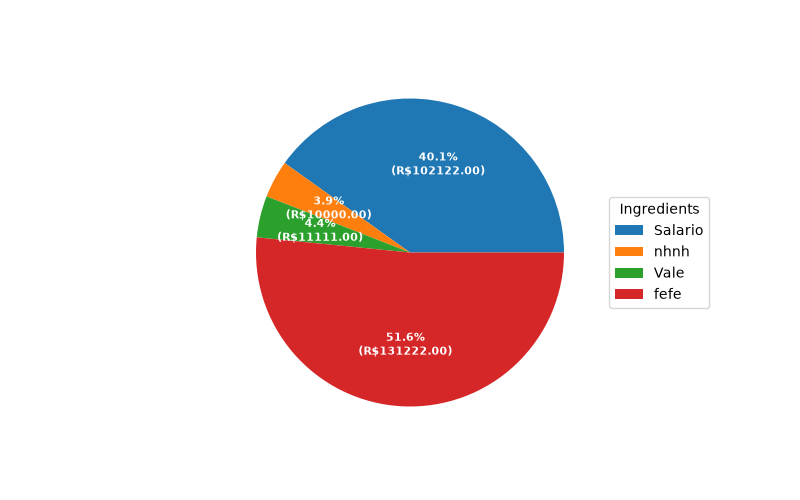
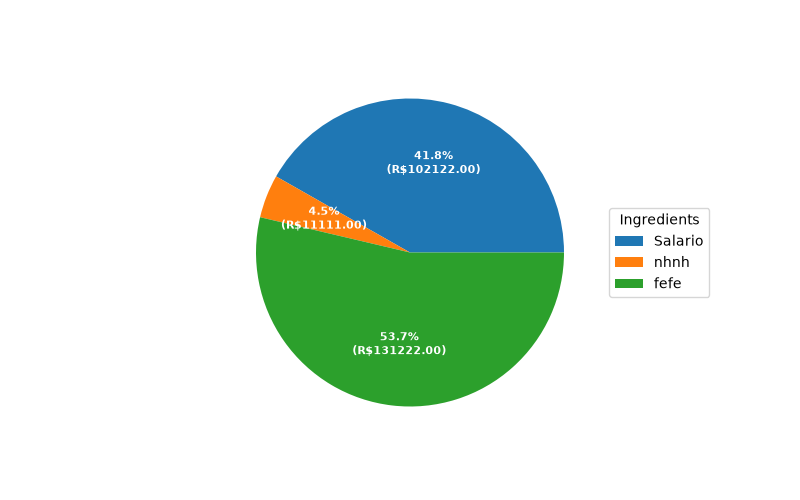
Delete gastos e ganhos
Em fim, meio que crud feito, podemos criar, consultar por parametros, excluir e atualizar

Changed region(s): [[0.3125, 0.33, 0.7188, 0.84], [0.75, 0.39, 0.875, 0.6], [0.4688, 0.3, 0.625, 0.36]]

diff --git a/finance/templates/finance/ganhos.html b/finance/templates/finance/ganhos.html
@@ -8,6 +8,7 @@
     <meta name="viewport" content="width=device-width, initial-scale=1.0">
     <title>Ganhos - Gestão Financeira</title>
     <link href="https://cdn.jsdelivr.net/npm/bootstrap@5.3.0/dist/css/bootstrap.min.css" rel="stylesheet">
+    <link rel="stylesheet" href="https://cdn.jsdelivr.net/npm/bootstrap-icons@1.11.3/font/bootstrap-icons.css">
     <link rel="stylesheet" href="../../static/style/ganhos.css">
 </head>
 
@@ -148,6 +149,12 @@
                                         {% endif %}
                                     </td>
                                     <td>{{ ganhos.type }}</td>
+                                    <td>
+                                        <button type="button" class="btn btn-sm btn-outline-danger"
+                                            data-bs-toggle="modal" data-bs-target="#confirmar-delete-{{ ganhos.id }}">
+                                            <i class="bi bi-trash"></i>
+                                        </button>
+                                    </td>
                                 </tr>
                                 {% endfor %}
                             </tbody>
@@ -259,8 +266,8 @@
                         </div>
 
                         <div class="mb-3 form-check">
-                            <input type="checkbox" class="form-check-input" id="is_paid-{{ ganho.id }}"
-                                name="is_paid" value="True" checked>
+                            <input type="checkbox" class="form-check-input" id="is_paid-{{ ganho.id }}" name="is_paid"
+                                value="True" checked>
                             <label class="form-check-label text-label" for="is_paid-{{ ganho.id }}">Já foi pago /
                                 recebido</label>
                         </div>
@@ -317,6 +324,30 @@
         </div>
     </div>
 
+    {% for ganho in ganhos_consultados %}
+    <div class="modal fade" id="confirmar-delete-{{ ganho.id }}" tabindex="-1" aria-hidden="true">
+        <div class="modal-dialog modal-dialog-centered">
+            <div class="modal-content">
+                <div class="modal-header">
+                    <h5 class="modal-title">Confirmar exclusão</h5>
+                    <button type="button" class="btn-close" data-bs-dismiss="modal" aria-label="Close"></button>
+                </div>
+                <div class="modal-body">
+                    Tem certeza que deseja excluir o ganho <strong>"{{ ganho.description }}"</strong>? Essa ação não
+                    pode ser desfeita.
+                </div>
+                <div class="modal-footer">
+                    <button type="button" class="btn btn-secondary" data-bs-dismiss="modal">Cancelar</button>
+                    <form action="{% url 'finance:delete_ganho' %}" method="post" class="d-inline">
+                        {% csrf_token %}
+                        <input type="hidden" name="ganho_id" value="{{ ganho.id }}">
+                        <button type="submit" class="btn btn-danger">Excluir</button>
+                    </form>
+                </div>
+            </div>
+        </div>
+    </div>
+    {% endfor %}
 
     <script src="https://cdn.jsdelivr.net/npm/bootstrap@5.3.0/dist/js/bootstrap.bundle.min.js"></script>
 </body>

diff --git a/finance/templates/finance/gastos.html b/finance/templates/finance/gastos.html
@@ -8,6 +8,7 @@
     <meta name="viewport" content="width=device-width, initial-scale=1.0">
     <title>Gastos - Gestão Financeira</title>
     <link href="https://cdn.jsdelivr.net/npm/bootstrap@5.3.0/dist/css/bootstrap.min.css" rel="stylesheet">
+    <link rel="stylesheet" href="https://cdn.jsdelivr.net/npm/bootstrap-icons@1.11.3/font/bootstrap-icons.css">
     <link rel="stylesheet" href="../../static/style/gastos.css">
 </head>
 
@@ -148,6 +149,12 @@
                                         {% endif %}
                                     </td>
                                     <td>{{ gasto.type }}</td>
+                                    <td>
+                                        <button type="button" class="btn btn-sm btn-outline-danger"
+                                            data-bs-toggle="modal" data-bs-target="#confirmar-delete-{{ gasto.id }}">
+                                            <i class="bi bi-trash"></i>
+                                        </button>
+                                    </td>
                                 </tr>
                                 {% endfor %}
                             </tbody>
@@ -340,6 +347,30 @@
         </div>
     </div>
 
+    {% for gasto in gastos_consultados %}
+    <div class="modal fade" id="confirmar-delete-{{ gasto.id }}" tabindex="-1" aria-hidden="true">
+        <div class="modal-dialog modal-dialog-centered">
+            <div class="modal-content">
+                <div class="modal-header">
+                    <h5 class="modal-title">Confirmar exclusão</h5>
+                    <button type="button" class="btn-close" data-bs-dismiss="modal" aria-label="Close"></button>
+                </div>
+                <div class="modal-body">
+                    Tem certeza que deseja excluir o ganho <strong>"{{ gasto.description }}"</strong>? Essa ação não
+                    pode ser desfeita.
+                </div>
+                <div class="modal-footer">
+                    <button type="button" class="btn btn-secondary" data-bs-dismiss="modal">Cancelar</button>
+                    <form action="{% url 'finance:delete_gasto' %}" method="post" class="d-inline">
+                        {% csrf_token %}
+                        <input type="hidden" name="gasto_id" value="{{ gasto.id }}">
+                        <button type="submit" class="btn btn-danger">Excluir</button>
+                    </form>
+                </div>
+            </div>
+        </div>
+    </div>
+    {% endfor %}
 
     <script src="https://cdn.jsdelivr.net/npm/bootstrap@5.3.0/dist/js/bootstrap.bundle.min.js"></script>
 </body>

diff --git a/finance/views.py b/finance/views.py
@@ -293,3 +293,39 @@ def atualizar_ganho(request):
     if referer:
         return redirect(referer)
     return redirect('finance:dashboard')
+
+@login_required(login_url="/finance/login/")
+def delete_ganho(request):
+    user = request.user
+
+    if request.method == "GET":
+            referer = request.META.get('HTTP_REFERER')
+            if referer:
+                return redirect(referer)
+            return redirect('finance:dashboard')
+    
+    ganho = get_object_or_404(Ganho, id=request.POST.get('ganho_id'), user=user)
+    ganho.delete()
+
+    referer = request.META.get('HTTP_REFERER')
+    if referer:
+        return redirect(referer)
+    return redirect('finance:dashboard')
+
+@login_required(login_url="/finance/login/")
+def delete_gasto(request):
+    user = request.user
+
+    if request.method == "GET":
+            referer = request.META.get('HTTP_REFERER')
+            if referer:
+                return redirect(referer)
+            return redirect('finance:dashboard')
+    
+    gasto = get_object_or_404(Gasto, id=request.POST.get('gasto_id'), user=user)
+    gasto.delete()
+
+    referer = request.META.get('HTTP_REFERER')
+    if referer:
+        return redirect(referer)
+    return redirect('finance:dashboard')

diff --git a/finance/urls.py b/finance/urls.py
@@ -16,4 +16,6 @@ urlpatterns = [
     path('consultar-ganhos-by-params', views.consultar_ganhos_by_params, name="consultar_ganhos_by_params"),
     path('atualizar-gasto', views.atualizar_gasto, name="atualizar_gasto"),
     path('atualizar-ganho', views.atualizar_ganho, name="atualizar_ganho"),
+    path('delete-ganho', views.delete_ganho, name="delete_ganho"),
+    path('delete-gasto', views.delete_gasto, name="delete_gasto"),
 ]
